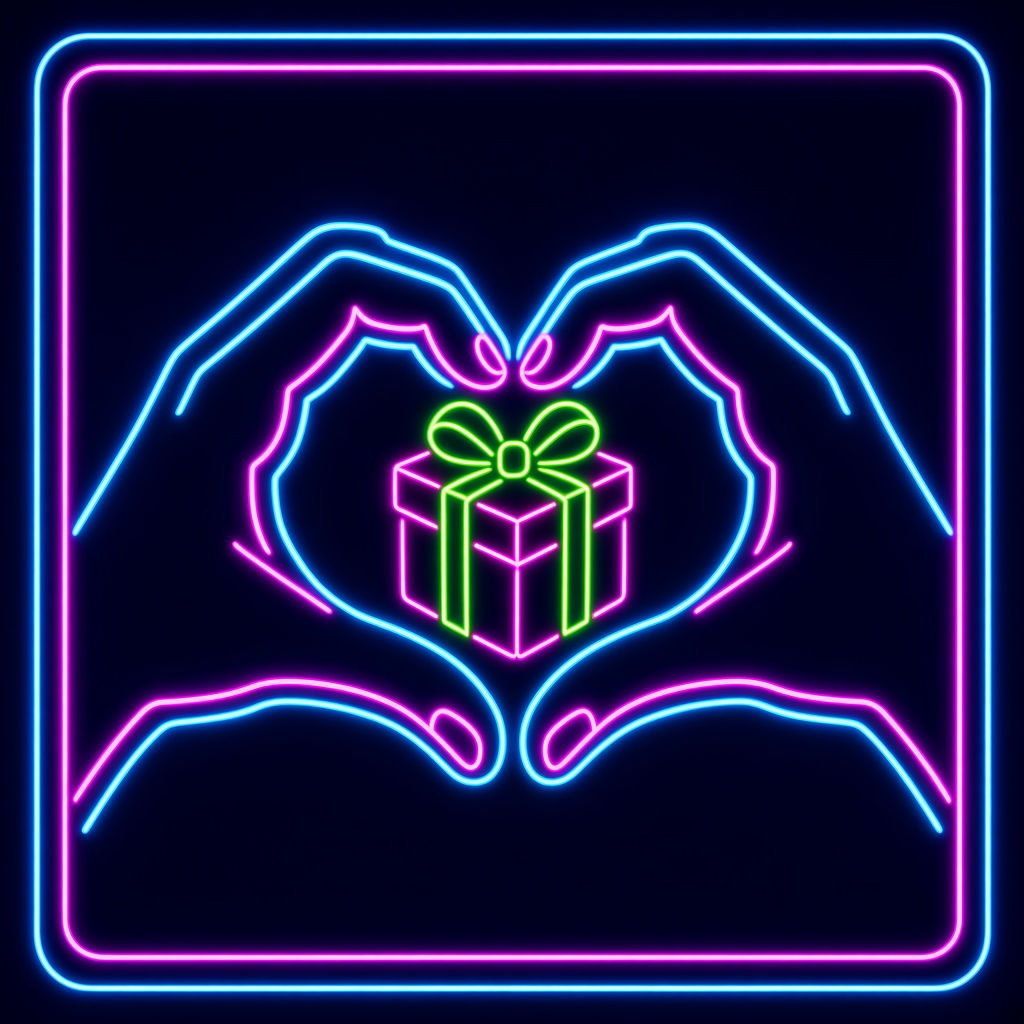
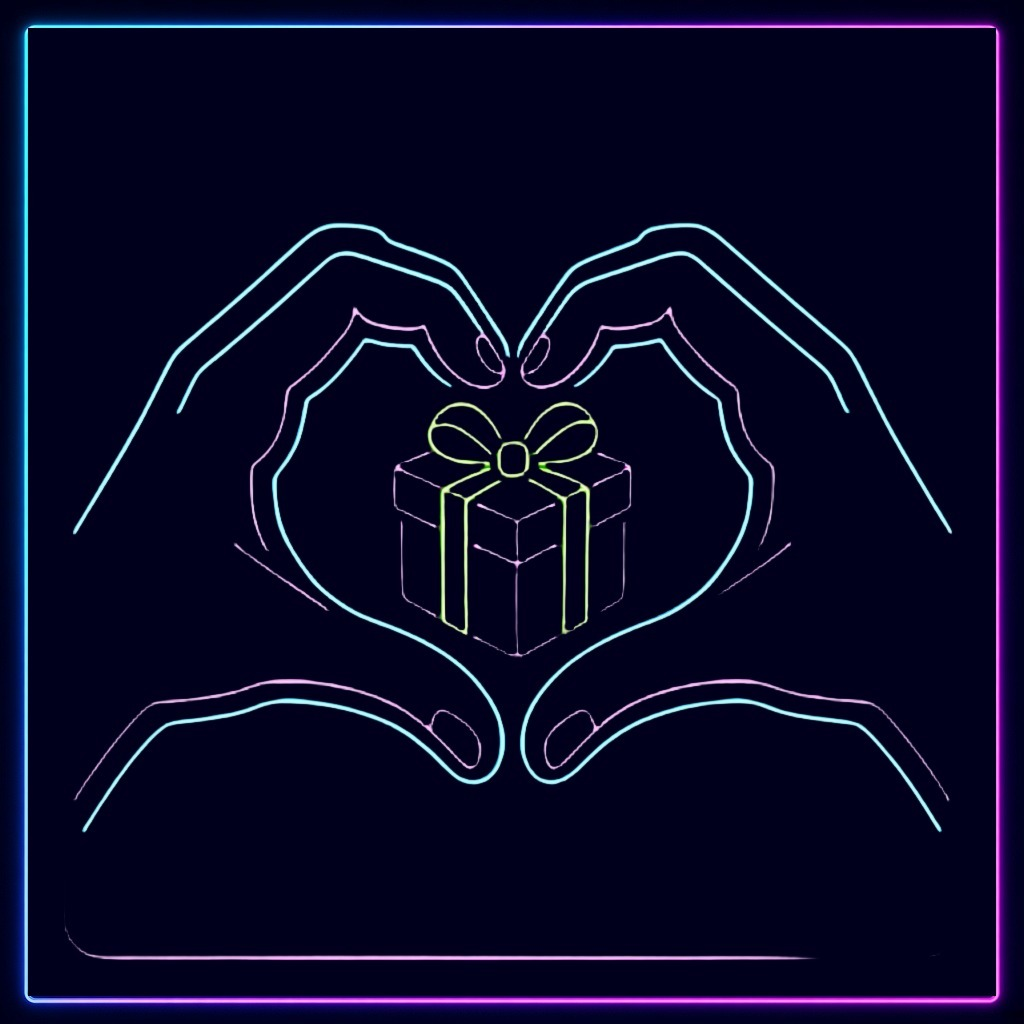
Unify finger-guide border/bg chrome within each style
Keep each style’s own frame palette; make all guide-*.jpg in that pack
share one border+background. Paper hands stay kraft/tan. Refresh media
contact sheet; bump guide cache versions.

diff --git a/hosts/neon/src/pixelAssets.js b/hosts/neon/src/pixelAssets.js
@@ -68,13 +68,13 @@ export function loadImage(src, { scrubMagenta = false } = {}) {
 const BASE = import.meta.env.BASE_URL
 
 export const PIXEL = {
-  guideSnow: `${BASE}pixel/guide-snow.jpg?v=51`,
-  guideGift: `${BASE}pixel/guide-gift.jpg?v=51`,
-  guideBell: `${BASE}pixel/guide-bell.jpg?v=51`,
-  guideAntlers: `${BASE}pixel/guide-antlers.jpg?v=51`,
-  guideHat: `${BASE}pixel/guide-hat.jpg?v=51`,
-  guideNext: `${BASE}pixel/guide-next.jpg?v=51`,
-  guideTree: `${BASE}pixel/guide-tree.jpg?v=51`,
+  guideSnow: `${BASE}pixel/guide-snow.jpg?v=52`,
+  guideGift: `${BASE}pixel/guide-gift.jpg?v=52`,
+  guideBell: `${BASE}pixel/guide-bell.jpg?v=52`,
+  guideAntlers: `${BASE}pixel/guide-antlers.jpg?v=52`,
+  guideHat: `${BASE}pixel/guide-hat.jpg?v=52`,
+  guideNext: `${BASE}pixel/guide-next.jpg?v=52`,
+  guideTree: `${BASE}pixel/guide-tree.jpg?v=52`,
   santaHat: `${BASE}pixel/santa-hat.png?v=3`,
   antlers: `${BASE}pixel/antlers.png?v=2`,
   gift: `${BASE}pixel/gift.png?v=52`,

diff --git a/hosts/paper/src/pixelAssets.js b/hosts/paper/src/pixelAssets.js
@@ -68,13 +68,13 @@ export function loadImage(src, { scrubMagenta = false } = {}) {
 const BASE = import.meta.env.BASE_URL
 
 export const PIXEL = {
-  guideSnow: `${BASE}pixel/guide-snow.jpg?v=51`,
-  guideGift: `${BASE}pixel/guide-gift.jpg?v=51`,
-  guideBell: `${BASE}pixel/guide-bell.jpg?v=51`,
-  guideAntlers: `${BASE}pixel/guide-antlers.jpg?v=51`,
-  guideHat: `${BASE}pixel/guide-hat.jpg?v=51`,
-  guideNext: `${BASE}pixel/guide-next.jpg?v=51`,
-  guideTree: `${BASE}pixel/guide-tree.jpg?v=51`,
+  guideSnow: `${BASE}pixel/guide-snow.jpg?v=52`,
+  guideGift: `${BASE}pixel/guide-gift.jpg?v=52`,
+  guideBell: `${BASE}pixel/guide-bell.jpg?v=52`,
+  guideAntlers: `${BASE}pixel/guide-antlers.jpg?v=52`,
+  guideHat: `${BASE}pixel/guide-hat.jpg?v=52`,
+  guideNext: `${BASE}pixel/guide-next.jpg?v=52`,
+  guideTree: `${BASE}pixel/guide-tree.jpg?v=52`,
   santaHat: `${BASE}pixel/santa-hat.png?v=3`,
   antlers: `${BASE}pixel/antlers.png?v=2`,
   gift: `${BASE}pixel/gift.png?v=52`,

diff --git a/hosts/pixel/src/pixelAssets.js b/hosts/pixel/src/pixelAssets.js
@@ -68,13 +68,13 @@ export function loadImage(src, { scrubMagenta = false } = {}) {
 const BASE = import.meta.env.BASE_URL
 
 export const PIXEL = {
-  guideSnow: `${BASE}pixel/guide-snow.jpg?v=51`,
-  guideGift: `${BASE}pixel/guide-gift.jpg?v=51`,
-  guideBell: `${BASE}pixel/guide-bell.jpg?v=51`,
-  guideAntlers: `${BASE}pixel/guide-antlers.jpg?v=51`,
-  guideHat: `${BASE}pixel/guide-hat.jpg?v=51`,
-  guideNext: `${BASE}pixel/guide-next.jpg?v=51`,
-  guideTree: `${BASE}pixel/guide-tree.jpg?v=51`,
+  guideSnow: `${BASE}pixel/guide-snow.jpg?v=52`,
+  guideGift: `${BASE}pixel/guide-gift.jpg?v=52`,
+  guideBell: `${BASE}pixel/guide-bell.jpg?v=52`,
+  guideAntlers: `${BASE}pixel/guide-antlers.jpg?v=52`,
+  guideHat: `${BASE}pixel/guide-hat.jpg?v=52`,
+  guideNext: `${BASE}pixel/guide-next.jpg?v=52`,
+  guideTree: `${BASE}pixel/guide-tree.jpg?v=52`,
   santaHat: `${BASE}pixel/santa-hat.png?v=3`,
   antlers: `${BASE}pixel/antlers.png?v=2`,
   gift: `${BASE}pixel/gift.png?v=52`,

diff --git a/hosts/vintage/src/pixelAssets.js b/hosts/vintage/src/pixelAssets.js
@@ -68,13 +68,13 @@ export function loadImage(src, { scrubMagenta = false } = {}) {
 const BASE = import.meta.env.BASE_URL
 
 export const PIXEL = {
-  guideSnow: `${BASE}pixel/guide-snow.jpg?v=51`,
-  guideGift: `${BASE}pixel/guide-gift.jpg?v=51`,
-  guideBell: `${BASE}pixel/guide-bell.jpg?v=51`,
-  guideAntlers: `${BASE}pixel/guide-antlers.jpg?v=51`,
-  guideHat: `${BASE}pixel/guide-hat.jpg?v=51`,
-  guideNext: `${BASE}pixel/guide-next.jpg?v=51`,
-  guideTree: `${BASE}pixel/guide-tree.jpg?v=51`,
+  guideSnow: `${BASE}pixel/guide-snow.jpg?v=52`,
+  guideGift: `${BASE}pixel/guide-gift.jpg?v=52`,
+  guideBell: `${BASE}pixel/guide-bell.jpg?v=52`,
+  guideAntlers: `${BASE}pixel/guide-antlers.jpg?v=52`,
+  guideHat: `${BASE}pixel/guide-hat.jpg?v=52`,
+  guideNext: `${BASE}pixel/guide-next.jpg?v=52`,
+  guideTree: `${BASE}pixel/guide-tree.jpg?v=52`,
   santaHat: `${BASE}pixel/santa-hat.png?v=3`,
   antlers: `${BASE}pixel/antlers.png?v=2`,
   gift: `${BASE}pixel/gift.png?v=52`,

diff --git a/src/pixelAssets.js b/src/pixelAssets.js
@@ -68,13 +68,13 @@ export function loadImage(src, { scrubMagenta = false } = {}) {
 const BASE = import.meta.env.BASE_URL
 
 export const PIXEL = {
-  guideSnow: `${BASE}pixel/guide-snow.jpg?v=51`,
-  guideGift: `${BASE}pixel/guide-gift.jpg?v=51`,
-  guideBell: `${BASE}pixel/guide-bell.jpg?v=51`,
-  guideAntlers: `${BASE}pixel/guide-antlers.jpg?v=51`,
-  guideHat: `${BASE}pixel/guide-hat.jpg?v=51`,
-  guideNext: `${BASE}pixel/guide-next.jpg?v=51`,
-  guideTree: `${BASE}pixel/guide-tree.jpg?v=51`,
+  guideSnow: `${BASE}pixel/guide-snow.jpg?v=52`,
+  guideGift: `${BASE}pixel/guide-gift.jpg?v=52`,
+  guideBell: `${BASE}pixel/guide-bell.jpg?v=52`,
+  guideAntlers: `${BASE}pixel/guide-antlers.jpg?v=52`,
+  guideHat: `${BASE}pixel/guide-hat.jpg?v=52`,
+  guideNext: `${BASE}pixel/guide-next.jpg?v=52`,
+  guideTree: `${BASE}pixel/guide-tree.jpg?v=52`,
   santaHat: `${BASE}pixel/santa-hat.png?v=3`,
   antlers: `${BASE}pixel/antlers.png?v=2`,
   gift: `${BASE}pixel/gift.png?v=52`,

diff --git a/hosts/vintage/src/vintageAssets.js b/hosts/vintage/src/vintageAssets.js
@@ -5,7 +5,7 @@ import { loadImage } from './pixelAssets.js'
 
 const BASE = import.meta.env.BASE_URL
 const V = `${BASE}vintage`
-const VER = '7'
+const VER = '8'
 
 export const VINTAGE = {
   guideSnow: `${V}/guide-snow.jpg?v=${VER}`,

diff --git a/src/vintageAssets.js b/src/vintageAssets.js
@@ -5,7 +5,7 @@ import { loadImage } from './pixelAssets.js'
 
 const BASE = import.meta.env.BASE_URL
 const V = `${BASE}vintage`
-const VER = '7'
+const VER = '8'
 
 export const VINTAGE = {
   guideSnow: `${V}/guide-snow.jpg?v=${VER}`,

diff --git a/hosts/paper/src/paperAssets.js b/hosts/paper/src/paperAssets.js
@@ -5,7 +5,7 @@ import { loadImage } from './pixelAssets.js'
 
 const BASE = import.meta.env.BASE_URL
 const P = `${BASE}paper`
-const VER = '10'
+const VER = '11'
 
 export const PAPER = {
   guideSnow: `${P}/guide-snow.jpg?v=${VER}`,

diff --git a/src/paperAssets.js b/src/paperAssets.js
@@ -5,7 +5,7 @@ import { loadImage } from './pixelAssets.js'
 
 const BASE = import.meta.env.BASE_URL
 const P = `${BASE}paper`
-const VER = '10'
+const VER = '11'
 
 export const PAPER = {
   guideSnow: `${P}/guide-snow.jpg?v=${VER}`,

diff --git a/hosts/neon/src/neonAssets.js b/hosts/neon/src/neonAssets.js
@@ -5,7 +5,7 @@ import { loadImage } from './pixelAssets.js'
 
 const BASE = import.meta.env.BASE_URL
 const N = `${BASE}neon`
-const VER = '9'
+const VER = '10'
 const FLAKE_VER = '4'
 
 export const NEON = {

diff --git a/src/neonAssets.js b/src/neonAssets.js
@@ -5,7 +5,7 @@ import { loadImage } from './pixelAssets.js'
 
 const BASE = import.meta.env.BASE_URL
 const N = `${BASE}neon`
-const VER = '9'
+const VER = '10'
 const FLAKE_VER = '4'
 
 export const NEON = {
